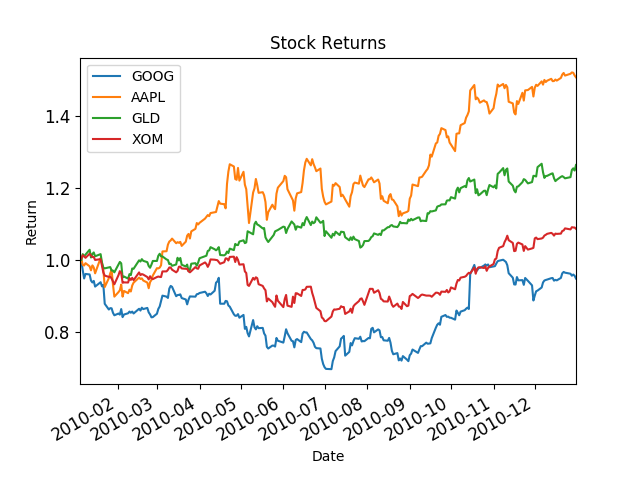
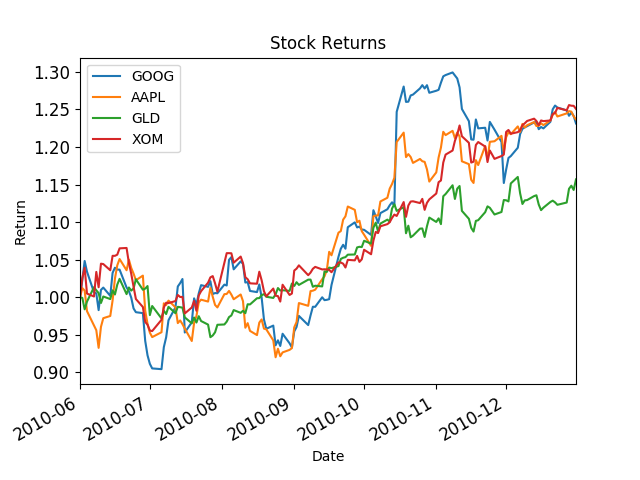
Completed ML4T Chapter 1, Ex 2

diff --git a/ML4T_Ex1_1.py b/ML4T_Ex1_1.py
@@ -35,6 +35,8 @@ def get_data(syms, sd, ed):
 
     # Drop the SPY I added
     spy = df['DROP'].copy(deep=True)
+    spy = pd.DataFrame(spy,spy.index)
+    spy = spy.rename(columns={'DROP': 'SPY'})
     df = df.drop('DROP', axis=1)
 
     return df, spy
@@ -88,7 +90,7 @@ def assess_portfolio(sd=dt.datetime(2008,1,1), ed=dt.datetime(2009,1,1), syms=['
     # Sum each row (i.e. all position values for each day). That is your daily portfolio value.
     # Use axis 1 because that means we are going to sum across the columns *for every row*
     df_daily_portfolio = df_value.sum(axis=1)
-    df_daily_portfolio = pd.DataFrame(df_daily_portfolio,df_value.index, ['Dollars'])
+    df_daily_portfolio = pd.DataFrame(df_daily_portfolio,df_value.index, ['Portfolio'])
     # Get statistic based on portfolio value, such as...
 
     # Create Plots
@@ -96,6 +98,7 @@ def assess_portfolio(sd=dt.datetime(2008,1,1), ed=dt.datetime(2009,1,1), syms=['
     if gen_plot:
         # Show plots
         # Straight Prices
+        """
         plot_data(df_prices, title='Stock Prices', ylabel='Price')
         # Normalized to 1.0
         plot_data(df_norm, title='Stock Returns', ylabel='Return')
@@ -103,6 +106,7 @@ def assess_portfolio(sd=dt.datetime(2008,1,1), ed=dt.datetime(2009,1,1), syms=['
         plot_data(df_daily, title='Daily Returns', ylabel='Daily Return')
         # Daily Portfolio Value
         plot_data(df_daily_portfolio, title='Portfolio Value', ylabel='Dollars')
+        """
         # Normalzied Portfolio returns vs SPY
         df_compare = df_daily_portfolio.join(spy)
         df_port_norm = df_compare / df_compare.ix[0]
@@ -221,72 +225,74 @@ def get_data(symbols, dates):
 """
 
 
-# Turn on interactive mode for matplotlib
-plt.ion()
+
+def main():
+    # Turn on interactive mode for matplotlib
+    plt.ion()
 
 
-"""
-cr, adr, sddr, sr, ev = assess_portfolio(sd=dt.datetime(2008,1,1), ed=dt.datetime(2009,1,1),
-    syms=['GOOG','AAPL','GLD','XOM'],
-    allocs=[0.1,0.2,0.3,0.4],
-    sv=1000000, rfr=0.0, sf=252.0,
-    gen_plot=False)
-"""
+    """
+    cr, adr, sddr, sr, ev = assess_portfolio(sd=dt.datetime(2008,1,1), ed=dt.datetime(2009,1,1),
+        syms=['GOOG','AAPL','GLD','XOM'],
+        allocs=[0.1,0.2,0.3,0.4],
+        sv=1000000, rfr=0.0, sf=252.0,
+        gen_plot=False)
+    """
 
-#cr, adr, sddr, sr, ev =
-cr = assess_portfolio(sd=dt.datetime(2008,1,1), ed=dt.datetime(2009,1,1), syms=['GOOG','AAPL','GLD','XOM'],
-    allocs=[0.1,0.2,0.3,0.4], sv=1000000, rfr=0.0, sf=252.0, gen_plot=False)
-
-
-"""
-Example 1
-Start Date: 2010-01-01
-End Date: 2010-12-31
-Symbols: ['GOOG', 'AAPL', 'GLD', 'XOM']
-Allocations: [0.2, 0.3, 0.4, 0.1]
-Sharpe Ratio: 1.51819243641
-Volatility (stdev of daily returns): 0.0100104028
-Average Daily Return: 0.000957366234238
-Cumulative Return: 0.255646784534
-"""
-print("")
-print("Example 1:")
-assess_portfolio(sd=dt.datetime(2010,1,1), ed=dt.datetime(2010,12,31), syms=['GOOG','AAPL','GLD','XOM'],
-    allocs=[0.2,0.3,0.4,0.1], sv=1000000, rfr=0.0, sf=252.0, gen_plot=False)
-
-"""
-Start Date: 2010-01-01
-End Date: 2010-12-31
-Symbols: ['AXP', 'HPQ', 'IBM', 'HNZ']
-Allocations: [0.0, 0.0, 0.0, 1.0]
-Sharpe Ratio: 1.30798398744
-Volatility (stdev of daily returns): 0.00926153128768
-Average Daily Return: 0.000763106152672
-Cumulative Return: 0.198105963655
-"""
-# TODO: For some reason, the answers he gives and my answers do not match. Can't really check this without his CSV file. But I did a double check and it looks like I'm right
-print("")
-print("Example 2:")
-assess_portfolio(sd=dt.datetime(2010,1,1), ed=dt.datetime(2010,12,31), syms=['AXP', 'HPQ', 'IBM', 'HNZ'],
-    allocs=[0.0, 0.0, 0.0, 1.0], sv=1000000, rfr=0.0, sf=252.0, gen_plot=False)
-print("--Double Check--")
-assess_portfolio(sd=dt.datetime(2010,1,1), ed=dt.datetime(2010,12,31), syms=['HNZ'],
-    allocs=[1.0], sv=1000000, rfr=0.0, sf=252.0, gen_plot=False)
+    #cr, adr, sddr, sr, ev =
+    cr = assess_portfolio(sd=dt.datetime(2008,1,1), ed=dt.datetime(2009,1,1), syms=['GOOG','AAPL','GLD','XOM'],
+        allocs=[0.1,0.2,0.3,0.4], sv=1000000, rfr=0.0, sf=252.0, gen_plot=True)
 
 
-"""
-Start Date: 2010-06-01
-End Date: 2010-12-31
-Symbols: ['GOOG', 'AAPL', 'GLD', 'XOM']
-Allocations: [0.2, 0.3, 0.4, 0.1]
-Sharpe Ratio: 2.21259766672
-Volatility (stdev of daily returns): 0.00929734619707
-Average Daily Return: 0.00129586924366
-Cumulative Return: 0.205113938792
-"""
-print("")
-print("Example 3:")
-assess_portfolio(sd=dt.datetime(2010,6,1), ed=dt.datetime(2010,12,31), syms=['GOOG','AAPL','GLD','XOM'],
-    allocs=[0.2, 0.3, 0.4, 0.1], sv=1000000, rfr=0.0, sf=252.0, gen_plot=False)
+    """
+    Example 1
+    Start Date: 2010-01-01
+    End Date: 2010-12-31
+    Symbols: ['GOOG', 'AAPL', 'GLD', 'XOM']
+    Allocations: [0.2, 0.3, 0.4, 0.1]
+    Sharpe Ratio: 1.51819243641
+    Volatility (stdev of daily returns): 0.0100104028
+    Average Daily Return: 0.000957366234238
+    Cumulative Return: 0.255646784534
+    """
+    print("")
+    print("Example 1:")
+    assess_portfolio(sd=dt.datetime(2010,1,1), ed=dt.datetime(2010,12,31), syms=['GOOG','AAPL','GLD','XOM'],
+        allocs=[0.2,0.3,0.4,0.1], sv=1000000, rfr=0.0, sf=252.0, gen_plot=True)
+
+    """
+    Start Date: 2010-01-01
+    End Date: 2010-12-31
+    Symbols: ['AXP', 'HPQ', 'IBM', 'HNZ']
+    Allocations: [0.0, 0.0, 0.0, 1.0]
+    Sharpe Ratio: 1.30798398744
+    Volatility (stdev of daily returns): 0.00926153128768
+    Average Daily Return: 0.000763106152672
+    Cumulative Return: 0.198105963655
+    """
+    # TODO: For some reason, the answers he gives and my answers do not match. Can't really check this without his CSV file. But I did a double check and it looks like I'm right
+    print("")
+    print("Example 2:")
+    assess_portfolio(sd=dt.datetime(2010,1,1), ed=dt.datetime(2010,12,31), syms=['AXP', 'HPQ', 'IBM', 'HNZ'],
+        allocs=[0.0, 0.0, 0.0, 1.0], sv=1000000, rfr=0.0, sf=252.0, gen_plot=True)
+    print("--Double Check--")
+    assess_portfolio(sd=dt.datetime(2010,1,1), ed=dt.datetime(2010,12,31), syms=['HNZ'],
+        allocs=[1.0], sv=1000000, rfr=0.0, sf=252.0, gen_plot=False)
+
+
+    """
+    Start Date: 2010-06-01
+    End Date: 2010-12-31
+    Symbols: ['GOOG', 'AAPL', 'GLD', 'XOM']
+    Allocations: [0.2, 0.3, 0.4, 0.1]
+    Sharpe Ratio: 2.21259766672
+    Volatility (stdev of daily returns): 0.00929734619707
+    Average Daily Return: 0.00129586924366
+    Cumulative Return: 0.205113938792
+    """
+    print("")
+    print("Example 3:")
+    assess_portfolio(sd=dt.datetime(2010,6,1), ed=dt.datetime(2010,12,31), syms=['GOOG','AAPL','GLD','XOM'],
+        allocs=[0.2, 0.3, 0.4, 0.1], sv=1000000, rfr=0.0, sf=252.0, gen_plot=True)
 
 

diff --git a/ML4T_Ex1_2.py b/ML4T_Ex1_2.py
@@ -2,6 +2,9 @@ import ML4T_Ex1_1 as ex1
 import datetime as dt
 import scipy.optimize as spo
 import numpy as np
+import matplotlib.pyplot as plt
+from importlib import reload
+
 
 
 def compute_portfolio_sharpe(allocs, df_prices, rfr = 0.0, sf = 252.0, sv=1000000):
@@ -28,7 +31,7 @@ def optimize_portfolio(sd=dt.datetime(2008,1,1), ed=dt.datetime(2009,1,1), syms=
     parameters = dict(df_prices=df_prices, rfr = 0.0, sf = 252.0, sv=1000000)
     constraints = ({'type': 'eq', 'fun': constrain})
     min_result = spo.minimize(compute_portfolio_sharpe, allocs, args=(parameters), method='SLSQP', options={'disp': False}, constraints=constraints, bounds=bounds)
-    print("Min Result: " + str(min_result))
+    #print("Min Result: " + str(min_result))
     return min_result
 
 def constrain(x):
@@ -36,69 +39,96 @@ def constrain(x):
     return result
 
 
-
-
-#min_result = optimize_portfolio()
-
-"""
-Start Date: 2010-01-01
-End Date: 2010-12-31
-Symbols: ['GOOG', 'AAPL', 'GLD', 'XOM']
-Optimal allocations: [  5.38105153e-16   3.96661695e-01   6.03338305e-01  -5.42000166e-17]
-Sharpe Ratio: 2.00401501102
-Volatility (stdev of daily returns): 0.0101163831312
-Average Daily Return: 0.00127710312803
-Cumulative Return: 0.360090826885
-"""
-sd=dt.datetime(2010, 1, 1)
-ed=dt.datetime(2010, 12, 31)
-syms=['GOOG', 'AAPL', 'GLD', 'XOM']
-min_result = optimize_portfolio(sd=sd, ed=ed, syms=syms)
-
-print("")
-print("Example 1:")
-ex1.assess_portfolio(sd=sd, ed=ed, syms=syms,
-    allocs=min_result['x'], sv=1000000, rfr=0.0, sf=252.0, gen_plot=True)
+def main():
+    # Turn on interactive mode for matplotlib
+    plt.ion()
 
 
 
-"""
-Start Date: 2004-01-01
-End Date: 2006-01-01
-Symbols: ['AXP', 'HPQ', 'IBM', 'HNZ']
-Optimal allocations: [  7.75113042e-01   2.24886958e-01  -1.18394877e-16  -7.75204553e-17]
-Sharpe Ratio: 0.842697383626
-Volatility (stdev of daily returns): 0.0093236393828
-Average Daily Return: 0.000494944887734
-Cumulative Return: 0.255021425162
-"""
-print("")
-print("Example 2:")
+    #min_result = optimize_portfolio()
+
+    """
+    Start Date: 2010-01-01
+    End Date: 2010-12-31
+    Symbols: ['GOOG', 'AAPL', 'GLD', 'XOM']
+    Optimal allocations: [  5.38105153e-16   3.96661695e-01   6.03338305e-01  -5.42000166e-17]
+    Sharpe Ratio: 2.00401501102
+    Volatility (stdev of daily returns): 0.0101163831312
+    Average Daily Return: 0.00127710312803
+    Cumulative Return: 0.360090826885
+    """
+    sd=dt.datetime(2010, 1, 1)
+    ed=dt.datetime(2010, 12, 31)
+    syms=['GOOG', 'AAPL', 'GLD', 'XOM']
+    min_result = optimize_portfolio(sd=sd, ed=ed, syms=syms)
+
+    print("")
+    print("Example 1:")
+    ex1.assess_portfolio(sd=sd, ed=ed, syms=syms,
+        allocs=min_result['x'], sv=1000000, rfr=0.0, sf=252.0, gen_plot=True)
 
 
-"""
-Start Date: 2004-12-01
-End Date: 2006-05-31
-Symbols: ['YHOO', 'XOM', 'GLD', 'HNZ']
-Optimal allocations: [ -3.84053467e-17   7.52817663e-02   5.85249656e-01   3.39468578e-01]
-Sharpe Ratio: 1.5178365773
-Volatility (stdev of daily returns): 0.00797126844855
-Average Daily Return: 0.000762170576913
-Cumulative Return: 0.315973959221
-"""
-print("")
-print("Example 3:")
+
+    """
+    Start Date: 2004-01-01
+    End Date: 2006-01-01
+    Symbols: ['AXP', 'HPQ', 'IBM', 'HNZ']
+    Optimal allocations: [  7.75113042e-01   2.24886958e-01  -1.18394877e-16  -7.75204553e-17]
+    Sharpe Ratio: 0.842697383626
+    Volatility (stdev of daily returns): 0.0093236393828
+    Average Daily Return: 0.000494944887734
+    Cumulative Return: 0.255021425162
+    """
+    sd=dt.datetime(2004, 1, 1)
+    ed=dt.datetime(2006, 1, 1)
+    syms=['AXP', 'HPQ', 'IBM', 'HNZ']
+    min_result = optimize_portfolio(sd=sd, ed=ed, syms=syms)
+
+    print("")
+    print("Example 2:")
+    ex1.assess_portfolio(sd=sd, ed=ed, syms=syms,
+        allocs=min_result['x'], sv=1000000, rfr=0.0, sf=252.0, gen_plot=True)
 
 
-"""
-Start Date: 2005-12-01
-End Date: 2006-05-31
-Symbols: ['YHOO', 'HPQ', 'GLD', 'HNZ']
-Optimal allocations: [ -1.67414005e-15   1.01227499e-01   2.46926722e-01   6.51845779e-01]
-Sharpe Ratio: 3.2334265871
-Volatility (stdev of daily returns): 0.00842416845541
-Average Daily Return: 0.00171589132005
-Cumulative Return: 0.229471589743
-"""
-print("")
-print("Example 4:")
+    """
+    Start Date: 2004-12-01
+    End Date: 2006-05-31
+    Symbols: ['YHOO', 'XOM', 'GLD', 'HNZ']
+    Optimal allocations: [ -3.84053467e-17   7.52817663e-02   5.85249656e-01   3.39468578e-01]
+    Sharpe Ratio: 1.5178365773
+    Volatility (stdev of daily returns): 0.00797126844855
+    Average Daily Return: 0.000762170576913
+    Cumulative Return: 0.315973959221
+    """
+    sd=dt.datetime(2004, 12, 1)
+    ed=dt.datetime(2006, 5, 31)
+    syms=['YHOO', 'XOM', 'GLD', 'HNZ']
+    min_result = optimize_portfolio(sd=sd, ed=ed, syms=syms)
+
+    print("")
+    print("Example 3:")
+    ex1.assess_portfolio(sd=sd, ed=ed, syms=syms,
+        allocs=min_result['x'], sv=1000000, rfr=0.0, sf=252.0, gen_plot=True)
+
+
+    """
+    Start Date: 2005-12-01
+    End Date: 2006-05-31
+    Symbols: ['YHOO', 'HPQ', 'GLD', 'HNZ']
+    Optimal allocations: [ -1.67414005e-15   1.01227499e-01   2.46926722e-01   6.51845779e-01]
+    Sharpe Ratio: 3.2334265871
+    Volatility (stdev of daily returns): 0.00842416845541
+    Average Daily Return: 0.00171589132005
+    Cumulative Return: 0.229471589743
+    """
+    sd=dt.datetime(2005, 12, 1)
+    ed=dt.datetime(2006, 5, 31)
+    syms=['YHOO', 'HPQ', 'GLD', 'HNZ']
+    min_result = optimize_portfolio(sd=sd, ed=ed, syms=syms)
+
+    print("")
+    print("Example 4:")
+    ex1.assess_portfolio(sd=sd, ed=ed, syms=syms,
+        allocs=min_result['x'], sv=1000000, rfr=0.0, sf=252.0, gen_plot=True)
+
+
